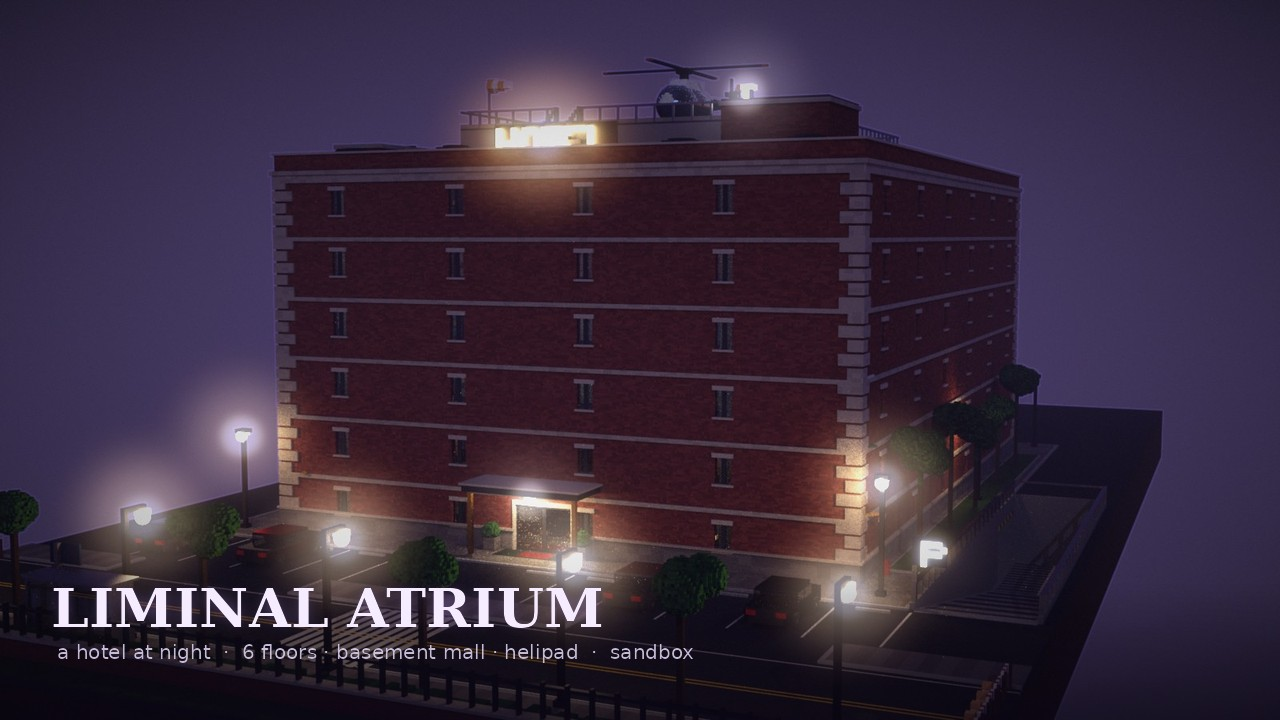
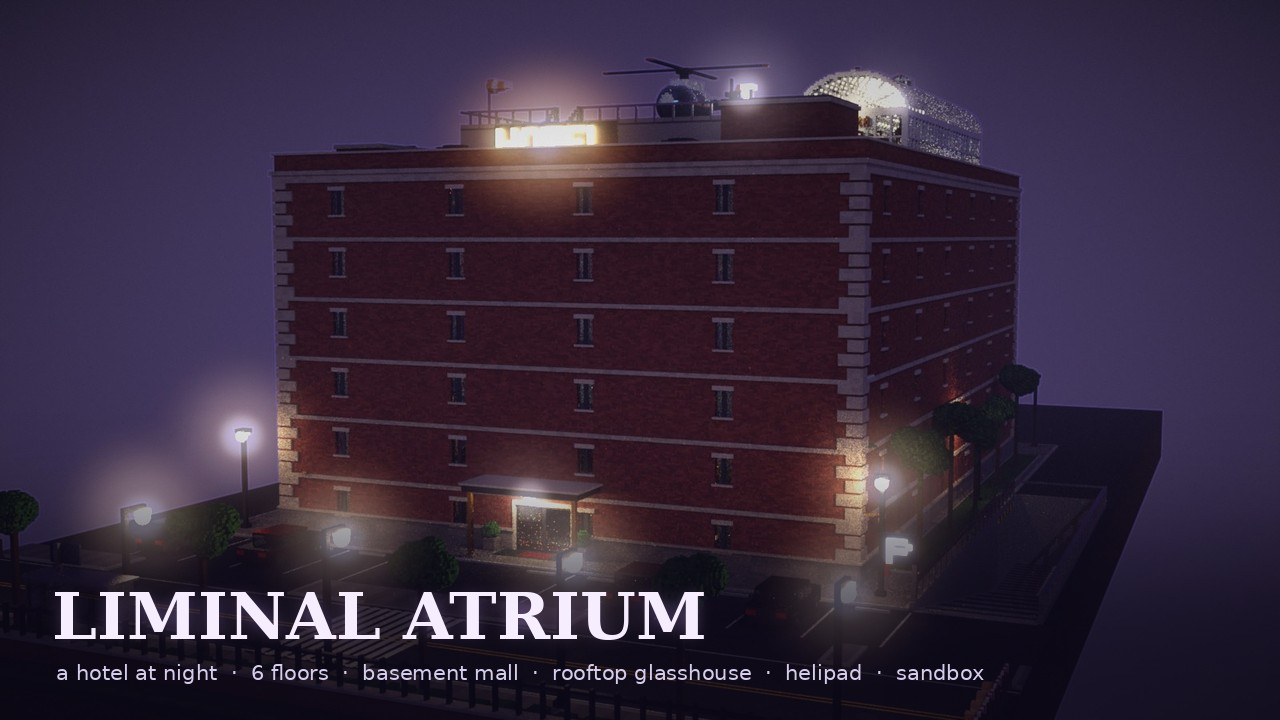
Liminal Atrium v3.36: package, thumbnail, README
Claude-Session: https://claude.ai/code/session_018sJoy4TNqsUYD4jgE44Q4d

diff --git a/teardown_liminal_atrium/tools/build_map.py b/teardown_liminal_atrium/tools/build_map.py
@@ -3964,7 +3964,7 @@ def export():
     with open(os.path.join(OUT, "main.xml"), "w") as f:
         f.write("".join(xml))
     with open(os.path.join(OUT, "info.txt"), "w") as f:
-        f.write("name = Liminal Atrium v3.35\n"
+        f.write("name = Liminal Atrium v3.36\n"
                 "author = Claude\n"
                 "description = A deserted hotel at night. 6 floors of fully furnished rooms around a purple-lit atrium, "
                 "themed corridors, stairwells, elevators, lobby, indoor pool, roof and parking lot, and a basement with an underground "

diff --git a/teardown_liminal_atrium/README.md b/teardown_liminal_atrium/README.md
@@ -1,4 +1,4 @@
-# Liminal Atrium v3.35 — Teardown 샌드박스 맵
+# Liminal Atrium v3.36 — Teardown 샌드박스 맵
 
 사진 속 보라빛 호텔 아트리움(리미널 스페이스)을 바탕으로 만든 Teardown 커스텀 맵입니다.
 
@@ -59,6 +59,13 @@
 - 지도 남쪽(주차장 너머)에 **도로** 추가: 보도(주차장 진입로 2곳), 연석, 2차선 도로(노란 중앙선·흰 차선), 호텔 앞 횡단보도,
   맨홀·빗물받이, 가로등 5개, 가로수, 버스 정류장(BUS 표지판), 벽돌담+철제 펜스+산울타리, 양 끝 통행금지 바리케이드와 라바콘,
   길가에 주차된 기본 차량 밴 1대. 맵 경계도 도로까지 넓힘
+
+## 수정 (v3.36)
+- 옥상 식물원: 가운데 길 1.2m → 2m, 연못 광장 둘레 길도 넓힘(연못을 줄이고 광장 안 벤치 2개 제거)
+- 전기실 입구에 철문(안쪽으로 열림)
+- 헬기: 착륙 후 뒤로 넘어가던 문제 — 꼬리 붐 속을 비우고, 조종석 바닥에 무게추, 착륙 다리를 뒤로 늘려 무게 중심을
+  다리 가운데로 옮김. 엔진이 꺼져 가며 땅에 서 있을 때는 자이로가 수평을 잡아 줌 (추락·폭발로는 여전히 넘어감)
+- 정전: 실제 빛이 없는 장식 전등(복도 벽등, 천장등 일부)도 층 전원에 묶어 정전되면 함께 꺼짐
 
 ## 수정 (v3.35)
 - 옥상 모서리: 계단실 옥탑·엘리베이터 기계실에 박혀 있던 공조기(HVAC)·덕트·환기구를 빼냄. 모서리 공조기 2대는 동쪽 옥상으로 옮김
